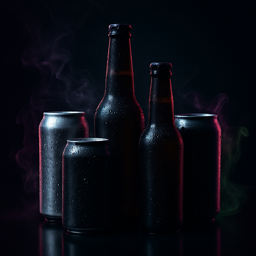
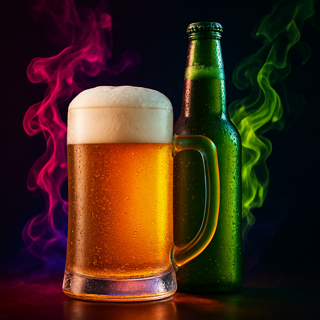
feat(home): filtros como cards estilo vibe (imagem chamativa + label sobreposto)
- categorias viram cards maiores (150x96) com a imagem preenchendo e o nome por cima (gradiente pra legibilidade), no estilo das vibes/pods
- regenera as 10 imagens com o produto grande, iluminado e identificavel (dark-neon)

diff --git a/index.html b/index.html
@@ -4320,13 +4320,13 @@
   </div>
 
   <style>
-    .ff-cats{ display:flex; gap:14px; overflow-x:auto; padding:10px 20px 4px; -webkit-overflow-scrolling:touch; scrollbar-width:none; }
+    .ff-cats{ display:flex; gap:12px; overflow-x:auto; padding:12px 20px 4px; -webkit-overflow-scrolling:touch; scrollbar-width:none; }
     .ff-cats::-webkit-scrollbar{ display:none; }
-    .ff-cat{ flex:0 0 auto; width:66px; text-align:center; cursor:pointer; }
-    .ff-cat .ic{ width:60px; height:60px; border-radius:18px; background:var(--card); border:1px solid var(--border); display:flex; align-items:center; justify-content:center; font-size:28px; margin:0 auto 6px; box-shadow:0 6px 16px rgba(0,0,0,.28); transition:transform .1s; overflow:hidden; }
-    .ff-cat .ic img{ width:100%; height:100%; object-fit:cover; display:block; }
-    .ff-cat:active .ic{ transform:scale(.93); }
-    .ff-cat .lb{ font-size:11px; color:var(--text-dim); font-weight:600; line-height:1.15; }
+    .ff-cat{ flex:0 0 auto; width:150px; height:96px; border-radius:16px; position:relative; overflow:hidden; cursor:pointer; background:var(--card); border:1px solid var(--border); box-shadow:0 6px 16px rgba(0,0,0,.28); transition:transform .1s; }
+    .ff-cat:active{ transform:scale(.98); }
+    .ff-cat img{ position:absolute; inset:0; width:100%; height:100%; object-fit:cover; display:block; }
+    .ff-cat::after{ content:''; position:absolute; inset:0; background:linear-gradient(to top, rgba(0,0,0,.78) 0%, rgba(0,0,0,.12) 55%, transparent 100%); }
+    .ff-cat-lb{ position:absolute; left:12px; bottom:9px; z-index:1; color:#fff; font-family:'Space Grotesk',sans-serif; font-weight:800; font-size:15px; text-shadow:0 2px 8px rgba(0,0,0,.65); }
     .ff-hero{ position:relative; margin:12px 20px; border-radius:20px; overflow:hidden; height:124px; box-shadow:0 8px 24px rgba(0,0,0,.3); touch-action:pan-y; }
     .ff-hero .slide{ position:absolute; inset:0; display:flex; align-items:center; justify-content:space-between; gap:10px; padding:20px; color:#fff; opacity:0; transform:scale(1.06); transition:opacity .5s ease, transform .5s ease; pointer-events:none; }
     .ff-hero .slide.on{ opacity:1; transform:scale(1); pointer-events:auto; }
@@ -8524,7 +8524,7 @@
   }
   function renderInicioCats(cats) {
     const el = document.getElementById('inicio-cats'); if (!el) return;
-    el.innerHTML = (cats || []).map(c => `<div class="ff-cat" onclick="openCategory('${c.key}','${escapeHtml(c.label)}')"><div class="ic"><img src="icons/cat-${c.key}.png" alt="" loading="lazy" onerror="this.parentNode.textContent='${c.emoji || '✦'}'"></div><div class="lb">${escapeHtml(c.label)}</div></div>`).join('');
+    el.innerHTML = (cats || []).map(c => `<div class="ff-cat" onclick="openCategory('${c.key}','${escapeHtml(c.label)}')"><img src="icons/cat-${c.key}.png" alt="" loading="lazy" onerror="this.style.display='none'"><span class="ff-cat-lb">${escapeHtml(c.label)}</span></div>`).join('');
   }
   // Carrossel de flyers estilo iFood: banner FIXO, o conteúdo dentro faz cross-fade
   // (efeito camaleão sumindo/aparecendo) ao arrastar pro lado. Com bolinhas + auto-play.
